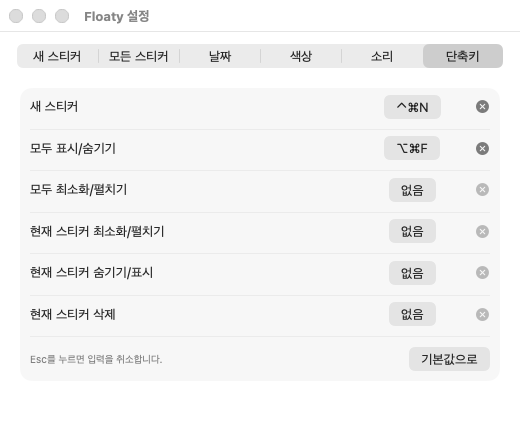
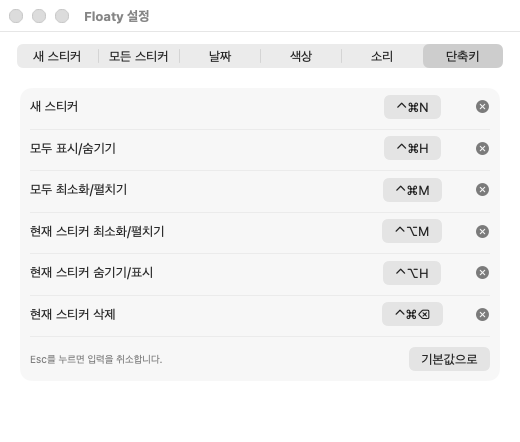
지금 쓰는 설정을 앱 기본값으로 지정

diff --git a/Sources/Floaty/AppSettings.swift b/Sources/Floaty/AppSettings.swift
@@ -147,20 +147,20 @@ final class AppSettings: ObservableObject {
         newNoteFontSize = double(Keys.fontSize, 13, in: 8...72)
         newNotePinned = defaults.object(forKey: Keys.pinned) as? Bool ?? true
         colorMode = defaults.string(forKey: Keys.colorMode).flatMap(ColorMode.init) ?? .random
-        fixedColorIndex = min(max(defaults.integer(forKey: Keys.fixedColor), 0), Palette.colors.count - 1)
-        opacity = double(Keys.opacity, 1, in: Self.opacityRange)
+        fixedColorIndex = min(max(defaults.object(forKey: Keys.fixedColor) as? Int ?? 6, 0), Palette.colors.count - 1)
+        opacity = double(Keys.opacity, 0.87, in: Self.opacityRange)
         opacityNewNotesOnly = defaults.object(forKey: Keys.opacityNewNotesOnly) as? Bool ?? true
         customColors = defaults.dictionary(forKey: Keys.customColors) as? [String: Int] ?? [:]
         footerInfo = defaults.string(forKey: Keys.footerInfo).flatMap(FooterInfo.init) ?? .modified
         dateStyle = defaults.string(forKey: Keys.dateStyle).flatMap(DateStyle.init) ?? .dotted
-        yearStyle = defaults.string(forKey: Keys.yearStyle).flatMap(YearStyle.init) ?? .full
-        weekdayStyle = defaults.string(forKey: Keys.weekdayStyle).flatMap(WeekdayStyle.init) ?? .none
+        yearStyle = defaults.string(forKey: Keys.yearStyle).flatMap(YearStyle.init) ?? YearStyle.none
+        weekdayStyle = defaults.string(forKey: Keys.weekdayStyle).flatMap(WeekdayStyle.init) ?? .koreanShort
         timeStyle = defaults.string(forKey: Keys.timeStyle).flatMap(TimeStyle.init) ?? .koreanMeridiem
         timeOnlyToday = defaults.object(forKey: Keys.timeOnlyToday) as? Bool ?? true
         hotKeys = defaults.data(forKey: Keys.hotKeys).flatMap { try? JSONDecoder().decode([String: KeyCombo].self, from: $0) }.map(KeyCombo.migrated) ?? KeyCombo.defaults
-        theme = defaults.string(forKey: Keys.theme).flatMap(Theme.init) ?? .light
+        theme = defaults.string(forKey: Keys.theme).flatMap(Theme.init) ?? .system
         sounds = defaults.dictionary(forKey: Keys.sounds) as? [String: String] ?? [:]
-        soundEffects = defaults.object(forKey: Keys.soundEffects) as? Bool ?? true
+        soundEffects = defaults.object(forKey: Keys.soundEffects) as? Bool ?? false
         confirmTrash = !defaults.bool(forKey: Keys.skipTrashConfirmation)
         SoundEffect.isEnabled = soundEffects
         SoundEffect.choices = sounds

diff --git a/Sources/Floaty/HotKey.swift b/Sources/Floaty/HotKey.swift
@@ -24,7 +24,17 @@ struct KeyCombo: Codable, Equatable {
     var modifiers: UInt32
     var key: String
 
-    static let defaults = [HotKeyAction.toggleAll.rawValue: KeyCombo(keyCode: UInt32(kVK_ANSI_F), modifiers: UInt32(cmdKey | optionKey), key: "F")]
+    static let defaults: [String: KeyCombo] = {
+        let controlCommand = UInt32(controlKey | cmdKey), controlOption = UInt32(controlKey | optionKey)
+        return [
+            HotKeyAction.newNote.rawValue: KeyCombo(keyCode: UInt32(kVK_ANSI_N), modifiers: controlCommand, key: "N"),
+            HotKeyAction.toggleAll.rawValue: KeyCombo(keyCode: UInt32(kVK_ANSI_H), modifiers: controlCommand, key: "H"),
+            HotKeyAction.toggleCollapse.rawValue: KeyCombo(keyCode: UInt32(kVK_ANSI_M), modifiers: controlCommand, key: "M"),
+            HotKeyAction.toggleCurrentCollapse.rawValue: KeyCombo(keyCode: UInt32(kVK_ANSI_M), modifiers: controlOption, key: "M"),
+            HotKeyAction.toggleCurrentHidden.rawValue: KeyCombo(keyCode: UInt32(kVK_ANSI_H), modifiers: controlOption, key: "H"),
+            HotKeyAction.trashCurrent.rawValue: KeyCombo(keyCode: UInt32(kVK_Delete), modifiers: controlCommand, key: "⌫"),
+        ]
+    }()
 
     /// 따로 있던 모두 최소화·모두 펼치기 단축키를 합친 토글로 옮긴다. 둘 다 있었으면 최소화 쪽을 남긴다.
     static func migrated(_ combos: [String: KeyCombo]) -> [String: KeyCombo] {

diff --git a/docs/guide.md b/docs/guide.md
@@ -50,8 +50,8 @@
 |---|---|---|
 | 접기 | 제목 줄만 남습니다 | 접기 버튼, 제목 더블클릭 |
 | 숨기기 | 화면에서 사라집니다 | 팔레트 메뉴의 **숨기기** |
-| 모두 숨기기 | 모든 스티커가 사라지거나 다시 나타납니다 | 메뉴바의 **모두 표시/숨기기**, ⌥⌘F |
-| 모두 접기 | 하나라도 펼쳐져 있으면 모두 접고, 모두 접혀 있으면 모두 펼칩니다 | 메뉴바의 **모두 최소화/펼치기** |
+| 모두 숨기기 | 모든 스티커가 사라지거나 다시 나타납니다 | 메뉴바의 **모두 표시/숨기기**, ⌃⌘H |
+| 모두 접기 | 하나라도 펼쳐져 있으면 모두 접고, 모두 접혀 있으면 모두 펼칩니다 | 메뉴바의 **모두 최소화/펼치기**, ⌃⌘M |
 
 숨긴 스티커는 메뉴바의 **스티커** 목록에서 골라 다시 엽니다.
 
@@ -99,12 +99,12 @@
 
 | 항목 | 기본값 |
 |---|---|
-| 새 스티커 | 없음 |
-| 모두 표시/숨기기 | ⌥⌘F |
-| 모두 최소화/펼치기 | 없음 |
-| 현재 스티커 최소화/펼치기 | 없음 |
-| 현재 스티커 숨기기/표시 | 없음 |
-| 현재 스티커 삭제 | 없음 |
+| 새 스티커 | ⌃⌘N |
+| 모두 표시/숨기기 | ⌃⌘H |
+| 모두 최소화/펼치기 | ⌃⌘M |
+| 현재 스티커 최소화/펼치기 | ⌃⌥M |
+| 현재 스티커 숨기기/표시 | ⌃⌥H |
+| 현재 스티커 삭제 | ⌃⌘⌫ |
 
 **현재 스티커**는 마지막으로 클릭하거나 입력한 스티커입니다. 앱을 켠 뒤 아직 누른 스티커가 없으면 동작하지 않습니다. 숨기기 단축키를 다시 누르면 숨긴 스티커가 돌아옵니다. 삭제 단축키는 보이는 스티커만 휴지통으로 옮기며, 연달아 눌러도 다음 스티커를 클릭하기 전에는 더 지우지 않습니다.
 
@@ -131,7 +131,7 @@
 | 모든 스티커 | 투명도, 아래 줄 기본 표시, 로그인 시 자동 실행, 삭제 확인, 테마 |
 | 날짜 | 날짜·연도·요일·시각 표기 방식 |
 | 색상 | 10가지 색의 제목 줄과 바탕 색. 라이트와 다크를 따로 정합니다 |
-| 소리 | 동작별 소리. 시스템 사운드, 없음, 내 소리 파일 중에서 고릅니다 |
+| 소리 | 효과음 켜기(기본은 꺼짐, 알람 소리는 항상 납니다), 동작별 소리. 시스템 사운드, 없음, 내 소리 파일 중에서 고릅니다 |
 | 단축키 | 전역 단축키 |
 
 ## 자주 묻는 질문

diff --git a/README.md b/README.md
@@ -43,7 +43,7 @@
 1. 메뉴바의 압정 꽂힌 메모지 아이콘을 누르고 **새 스티커**를 고릅니다.
 2. 내용을 입력합니다. 저장은 자동으로 됩니다.
 3. 제목 줄을 끌어 원하는 곳에 둡니다.
-4. **⌥⌘F**를 누르면 모든 스티커가 숨고, 다시 누르면 나타납니다.
+4. **⌃⌘H**를 누르면 모든 스티커가 숨고, 다시 누르면 나타납니다.
 
 자세한 내용은 [사용법](docs/guide.md)을 보세요.
 
